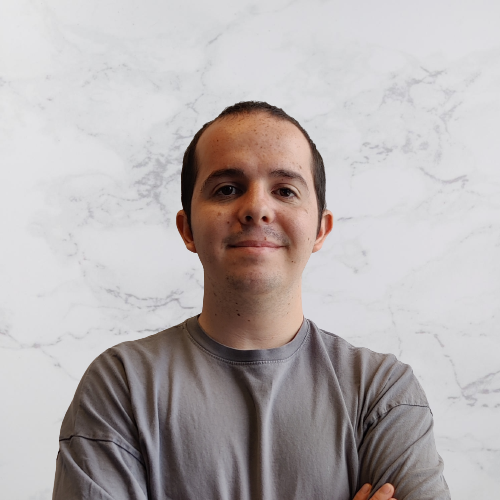
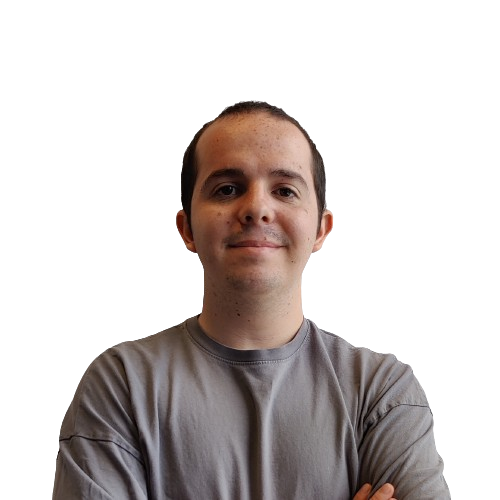
[FEAT] Ajout d'une couleur de fond pour les Images

diff --git a/src/ui/components/common/Image.tsx b/src/ui/components/common/Image.tsx
@@ -4,13 +4,14 @@ import { type ImageProps } from '@interfaces/components/common/ImageProps'
 const Image: FC<ImageProps> = ({
     source,
     round = false,
-    size = '270px'
+    size = '270px',
+    backgroundColor = 'background'
 }): ReactElement => {
     return (
         <img
             src={source}
             alt={source}
-            className={`${round && 'border-round'} shadow aspect-1`}
+            className={`${round && 'border-round'} shadow aspect-1 bg-${backgroundColor}`}
             style={{
                 width: size
             }}

diff --git a/src/ui/views/IntroductionScreen.tsx b/src/ui/views/IntroductionScreen.tsx
@@ -21,6 +21,7 @@ const IntroductionScreen: FC<ScreenProps> = ({
                     <Image
                         source={Images.Lilian}
                         round
+                        backgroundColor={'primary'}
                     />
                     <div
                         className={'ml-50'}

diff --git a/src/interfaces/components/common/ImageProps.ts b/src/interfaces/components/common/ImageProps.ts
@@ -1,5 +1,8 @@
+import { type ColorsType } from '@interfaces/types/ColorsType'
+
 export interface ImageProps {
     source: string
     round?: boolean
     size?: string
+    backgroundColor?: ColorsType
 }
